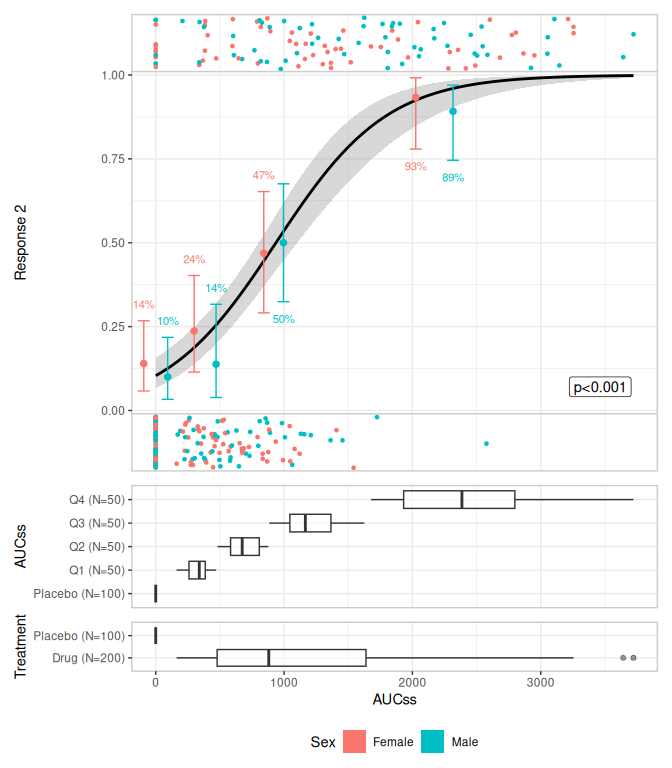
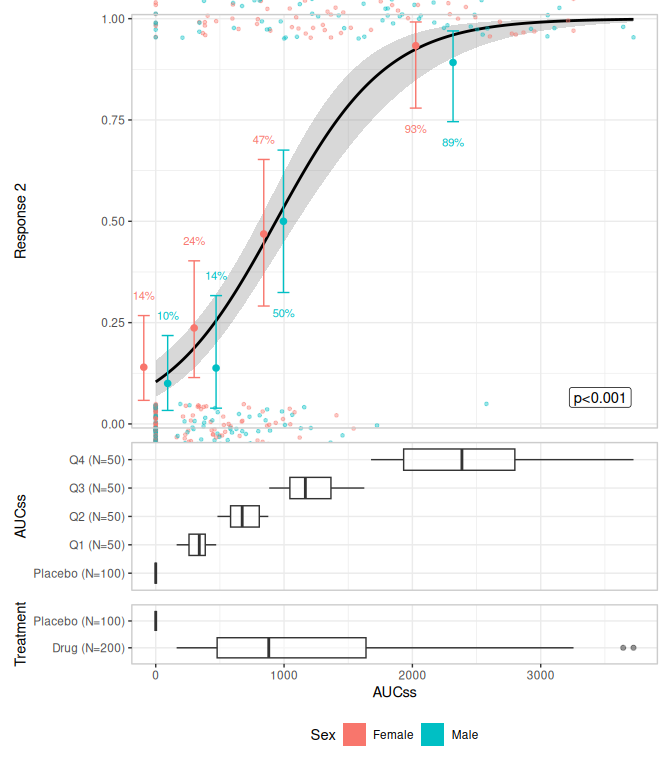
Deploying to gh-pages from @ djnavarro/erplots@2349d70d37310496227af9ed7fafebdecd4695e3 🚀

diff --git a/index.html b/index.html
@@ -116,7 +116,7 @@
 <span><span class="co">#&gt;   plot components:</span></span>
 <span><span class="co">#&gt;     - model:           erglm_model/glm/lm</span></span>
 <span><span class="co">#&gt;     - quantile:        3 bins</span></span>
-<span><span class="co">#&gt;     - data:            jitter both</span></span>
+<span><span class="co">#&gt;     - overlay:         stratified</span></span>
 <span><span class="co">#&gt;     - group:           .aucss_quantile, treatment</span></span>
 <span><span class="co">#&gt;   plots built: &lt;none&gt;</span></span>
 <span><span class="co">#&gt;   output built: no</span></span>

diff --git a/index.md b/index.md
@@ -70,7 +70,7 @@ print(plt)
 #>   plot components:
 #>     - model:           erglm_model/glm/lm
 #>     - quantile:        3 bins
-#>     - data:            jitter both
+#>     - overlay:         stratified
 #>     - group:           .aucss_quantile, treatment
 #>   plots built: <none>
 #>   output built: no